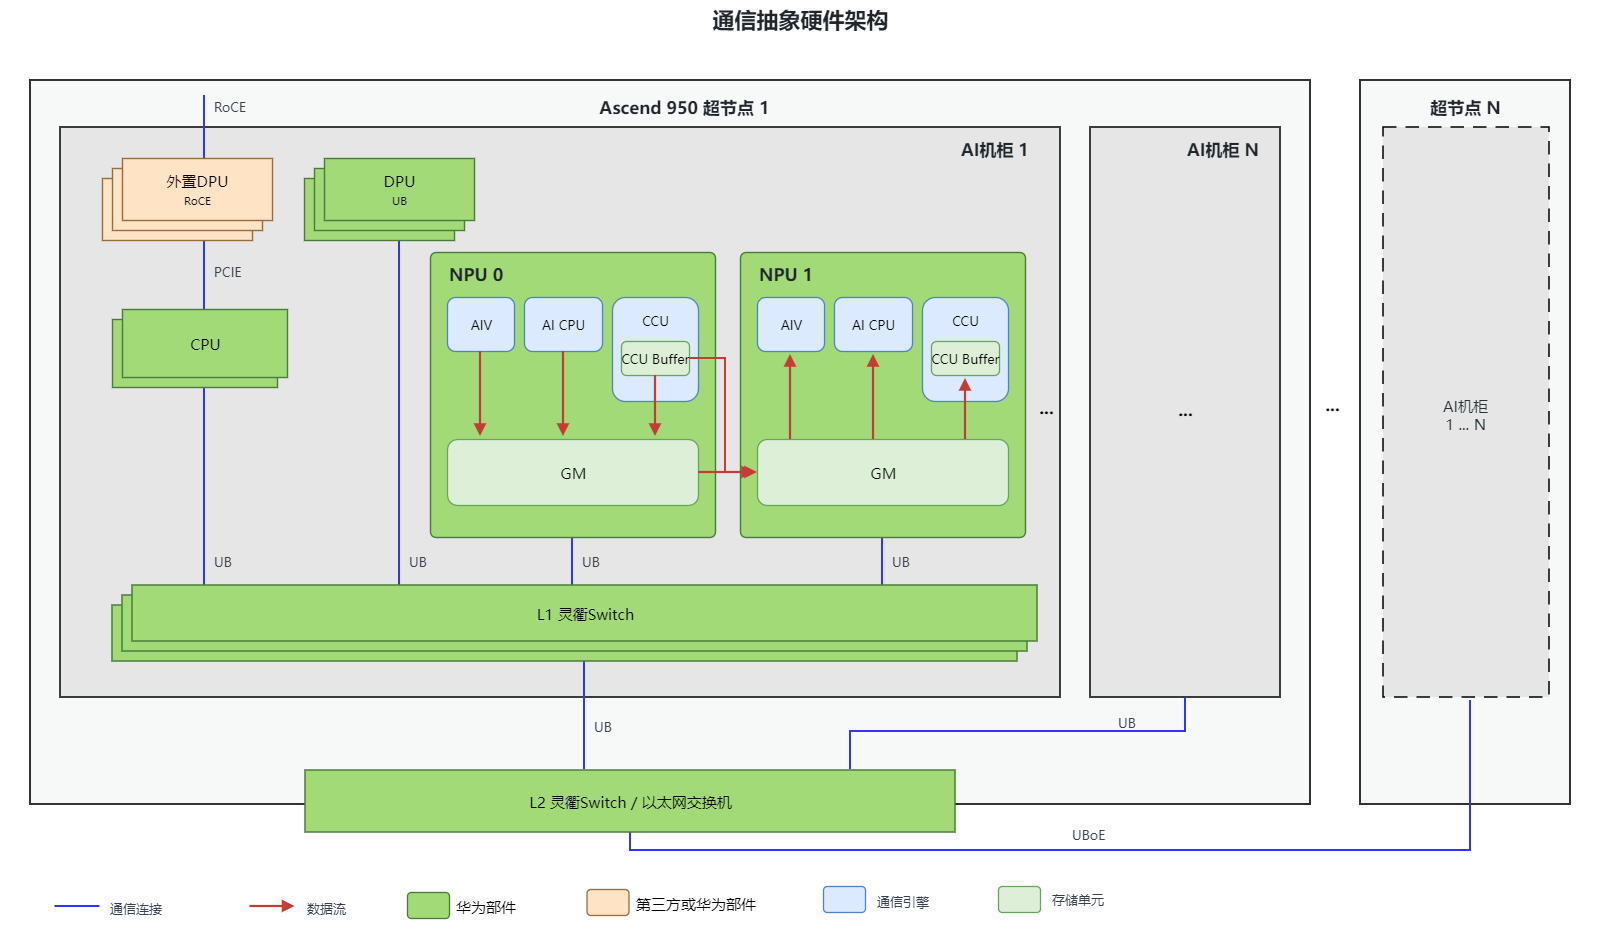
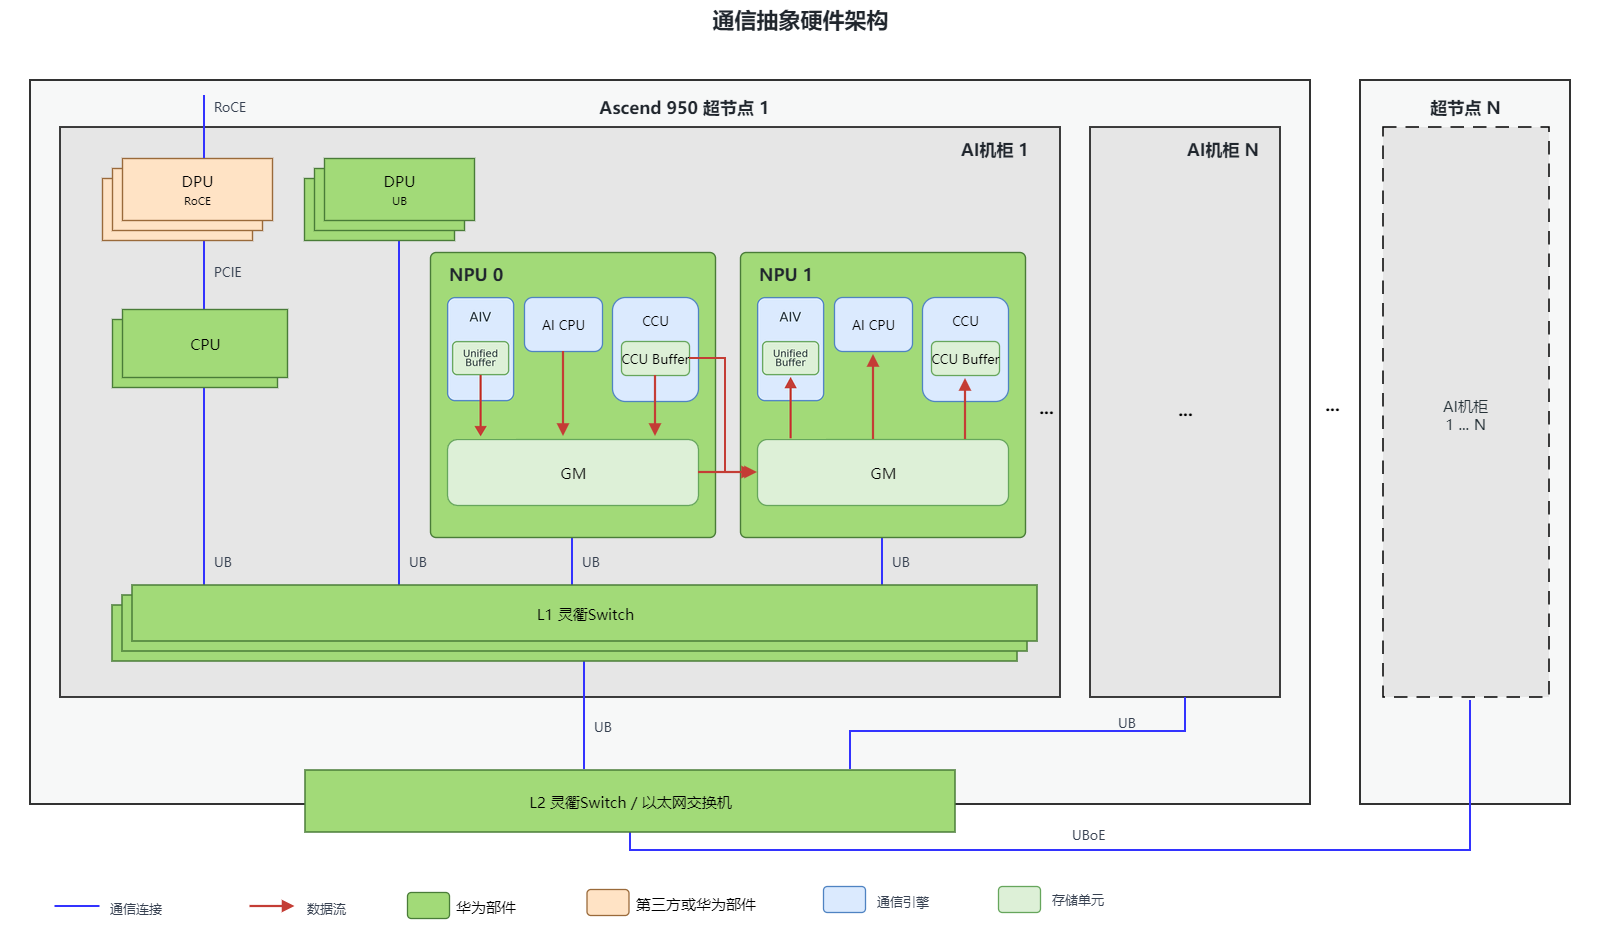
fix

Changed region(s): [[0.4688, 0.3394, 0.5312, 0.4319], [0.2812, 0.3394, 0.3438, 0.4319], [0.0938, 0.1851, 0.1562, 0.216]]

diff --git a/docs/zh/programming-model/communication_pattern_selection.md b/docs/zh/programming-model/communication_pattern_selection.md
@@ -1,38 +1,39 @@
 # 通信方式分类及选择
 
 在大规模分布式训练和推理业务中，通信方式会同时影响通信时延、带宽利用率、计算资源占用和组网范围。本节面向Ascend 950PR/Ascend 950DT，从驱动模式、通信引擎和通信协议三个相互关联的维度说明通信方式：
+
 - 驱动模式决定通信操作由当前Kernel直接发起，还是交由独立单元推进。
 - 通信引擎决定由哪类硬件执行通信任务。
-- 通信协议由组网结构、通信端口和可达链路决定。实际使用时，需要结合消息大小、性能目标、计算资源占用和系统拓扑综合判断。
+- 通信协议由组网结构、通信端口和可达链路决定。
 
 ## 驱动模式分类与选择
 
 驱动模式描述当前算子Kernel与通信操作之间的发起关系，主要区别在于通信是否由当前Kernel直接执行。该选择会影响通信发起开销、计算资源占用以及通信与计算的并行方式。直驱模式侧重缩短发起路径，代理模式侧重将通信推进过程与当前Kernel解耦，对比结果如下：
 
-**表1** 直驱模式与代理模式对比
+**表 1** 直驱模式与代理模式对比
 
 | 模式 | 含义 | 主要特点 | 适用场景 |
 | --- | --- | --- | --- |
-| 直驱模式 | 当前算子Kernel直接发起通信操作。 | 发起路径短、时延低，但通信可能占用执行该Kernel的计算资源。 | 小数据低时延通信、细粒度通算融合和高性能定制算子。 |
+| 直驱模式 | 当前算子Kernel直接发起通信操作。 | 发起路径短、时延低，但通信可能占用执行该Kernel的计算资源。 | 低时延通信、高性能定制算子。 |
 | 代理模式 | 当前算子Kernel将通信请求交给独立的数据面单元，由其发起并推进通信。 | 可以将通信推进与当前Kernel解耦，但会增加请求转交和调度开销。 | 需要独立推进通信、减少计算核占用或实现较长时间通信与计算并行的场景。 |
 
 ## 通信引擎分类与选择
 
 确定通信的发起方式后，还需要回答“谁执行通信”，即选择实际承接通信任务的硬件主体。AI CPU+TS、AIV和CCU在调度开销、计算核占用、访存开销和适用消息规模方面各有侧重，因此通信引擎的选择应与时延、带宽和资源占用目标匹配。编程接口使用`CommEngine`枚举类型表示通信引擎，各引擎的枚举值和适用场景如下：
 
-**表2** 不同通信引擎的适用场景
+**表 2** 不同通信引擎的适用场景
 
 | 通信引擎 | 枚举值 | 优势 | 约束 | 适用场景 |
 | --- | --- | --- | --- | --- |
-| AI CPU+TS | `COMM_ENGINE_AICPU_TS` | 不占用计算核，通信效率高，适用于大数据高带宽场景。 | 通信静态开销较大，对小数据量通信场景不友好。 | 高带宽通信场景 |
-| AIV | `COMM_ENGINE_AIV` | 低时延。 | 通信占用Vector计算核，需要多个Vector计算核才能打满通信带宽；通信算子与计算算子竞争计算核资源，可能互相影响。 | 低时延通信场景 |
-| CCU | `COMM_ENGINE_CCU` | 减少访存带宽与计算核占用。<br>高带宽，低时延。 | 受限于片上资源，支持的通信域数量有限。 | 高带宽、低时延通信场景 |
+| AI CPU+TS | `COMM_ENGINE_AICPU_TS` | 不占用计算核，通信效率高，适用于大数据高带宽场景。 | 通信静态开销较大，对小数据量通信场景不友好。 | 高带宽通信场景。 |
+| AIV | `COMM_ENGINE_AIV` | 低时延。 | 通信占用Vector计算核，需要多个Vector计算核才能打满通信带宽；通信算子与计算算子竞争计算核资源，可能互相影响。 | 低时延通信场景。 |
+| CCU | `COMM_ENGINE_CCU` | 减少访存带宽与计算核占用。<br>高带宽，低时延。 | 受限于片上资源，支持的通信域数量有限。 | 高带宽、低时延通信场景。 |
 
 ## 通信协议分类与选择
 
-通信协议规定数据在既定链路上的传输和访问方式。与驱动模式和通信引擎不同，通信协议不是编程时可以自由选择的参数，而是由实际的物理组网、硬件接线决定。Ascend 950PR/Ascend 950DT涉及UB_CTP、UB_RTP、UB Memory、UBoE和RoCE，具体含义如下：
+通信协议规定数据在既定链路上的传输和访问方式。与驱动模式和通信引擎不同，通信协议不是独立于链路自由选择的参数，而是由实际物理组网中的通信端口和可达链路决定。编程时应使用控制面返回的协议类型，并调用与该协议匹配的数据面接口。Ascend 950PR/Ascend 950DT涉及UB_CTP、UB_RTP、UB Memory、UBoE和RoCE，具体含义如下：
 
-**表3** 通信协议的含义及编程枚举
+**表 3** 通信协议的含义及编程枚举
 
 | 通信协议 | 含义 | 枚举值 |
 | --- | --- | --- |

diff --git a/docs/zh/programming-model/overview.md b/docs/zh/programming-model/overview.md
@@ -6,15 +6,17 @@
 
 不同业务场景的模型结构、消息规模和网络拓扑各不相同，预置的通信算法难以在所有场景下保持较优性能。同时，通信与计算的进一步融合也对通信算子的编程灵活性提出了更高要求。Ascend C提供面向Kernel的通信编程能力，将底层通信平台与算子实现解耦，使开发者可以根据业务特点定制通信算法，专注于算法的设计与实现。
 
-本章以通信算子的开发过程为主线，首先通过编程范式说明通信资源准备与Device侧算子执行之间的协作关系，然后依次介绍硬件与组网、通信方式和模型机制。
+本章以通信算子的开发过程为主线，首先通过编程范式说明通信资源准备与Device侧算子执行之间的协作关系，然后介绍如何根据硬件与组网条件确定通信通路、如何选择通信方式，以及通信资源和任务在各类模型中的组织方式。
 
 ## Ascend C通信编程范式
 
 Ascend C通信编程采用控制面与数据面分工的方式。控制面运行在Host侧，负责查询拓扑、建立通信关系、注册通信内存和准备同步资源；数据面运行在Device侧，使用控制面准备的通信关系和资源完成通信操作。控制面准备的信息传递给Device侧Kernel后，可在Kernel执行期间复用。
 
-从开发者视角出发，一次通信过程可以分为资源准备、前同步、算子执行和后同步四个阶段，如图1所示。
+从开发者视角出发，一次通信过程可以分为资源准备、前同步、算子执行和后同步四个阶段，如[图1](#fig-communication-operator-workflow)所示。
 
-**图1** 通信算子基本流程
+<a id="fig-communication-operator-workflow"></a>
+
+**图 1** 通信算子基本流程
 
 ![通信算子基本流程](./figures/communication_operator_workflow.png)
 
@@ -29,12 +31,12 @@ Ascend C通信编程采用控制面与数据面分工的方式。控制面运行
 
 后续各章节的内容如表1所示。
 
-**表1** 后续章节内容
+**表 1** 后续章节内容
 
 | 章节 | 主要内容 |
 | --- | --- |
-| [抽象硬件架构](./abstract_hardware_architecture.md) | 介绍参与通信的硬件组件、NPU间的数据通路及多NPU组网方式。 |
-| [通信方式分类及选择](./communication_pattern_selection.md) | 介绍驱动模式、通信引擎和通信协议的分类及选择依据。 |
+| [抽象硬件架构](./abstract_hardware_architecture.md) | 介绍参与通信的硬件组件、NPU间的数据通路及多NPU组网方式，帮助开发者识别可达链路并规划数据路径。 |
+| [通信方式分类及选择](./communication_pattern_selection.md) | 介绍驱动模式、通信引擎和通信协议的分类，以及结合组网与性能目标选择通信方式的方法。 |
 | [通信模型](./communication_model.md) | 介绍通信实体、Endpoint、Channel和通信内存等对象之间的关系。 |
 | [内存模型](./memory_model.md) | 介绍通信相关存储资源、通信内存的远端可见性、访问授权和寻址方式。 |
 | [执行模型](./execution_model.md) | 介绍通信任务从准备、提交、执行、同步到完成的过程。 |
